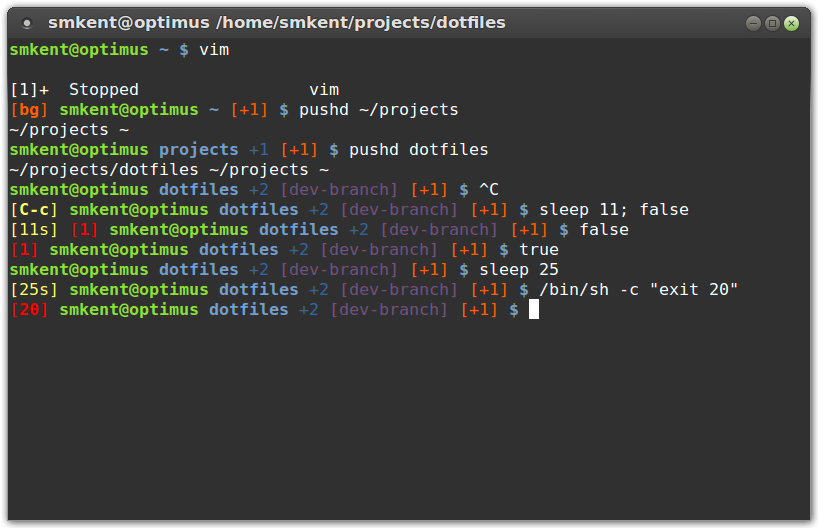
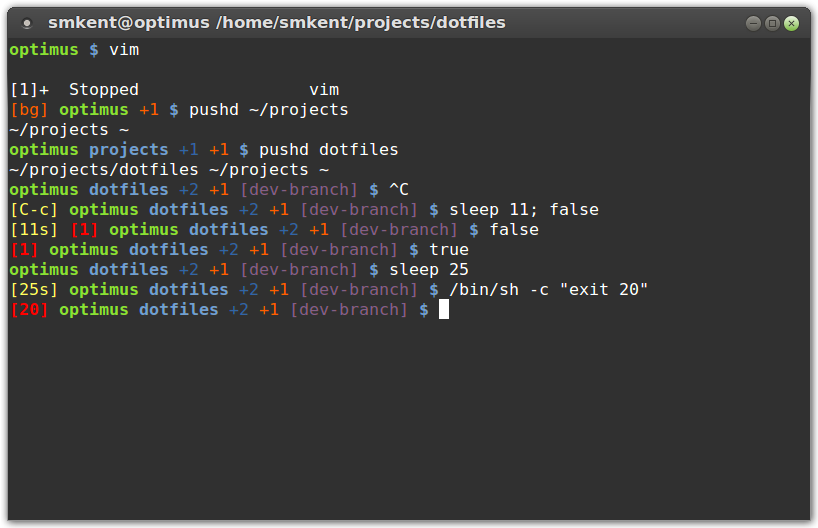
Bash prompt updates
- Don't display the username in the prompt if it matches
  ${prompt_hide_user} (configurable at the top of .bashrc)
- Don't display the directory in the prompt if the current directory is
  ${HOME}
- Remove brackets from the number of background jobs
- Show the number of background jobs before the current git branch
- Use a slightly lighter purple for the current git branch
- Don't show Ctrl+C or background exit statuses in bold

diff --git a/README.md b/README.md
@@ -42,8 +42,13 @@ install the cloned dotfiles with:
 $ git checkout .
 ```
 
-If you use or fork this repository, you'll want to update `.gitconfig` with
-your name and email address and remove `.face`.
+### Configuration
+
+After installing or forking this repository, you should
+
+* Update [`.gitconfig`](/.gitconfig) with your name and email address
+* Set `prompt_hide_user` to your username in [`.bashrc`](/.bashrc)
+* Remove or replace `.face`
 
 ### External components
 
@@ -56,13 +61,16 @@ Fonts](https://github.com/powerline/fonts), which can be installed using the
 
 ### Bash
 
+* Display username if different from the value of `prompt_hide_user` in
+[.bashrc](/.bashrc)
+* Display current directory name if different from `${HOME}`
 * Display exit code of the previous command if nonzero (or "bg" / "C-c" when
 backgrounding a job or typing Ctrl-C, respectively)
 * Display runtime of the previous command if longer than 10 seconds
 * Display size of the directory stack if not empty
+* Display number of background jobs if any
 * Display git branch (or hash on detached HEAD) if the current directory is a
 git repository
-* Display number of background jobs if any
 
 ![bash screenshot](/.dotfiles/img/screenshot-bashrc.png)
 
